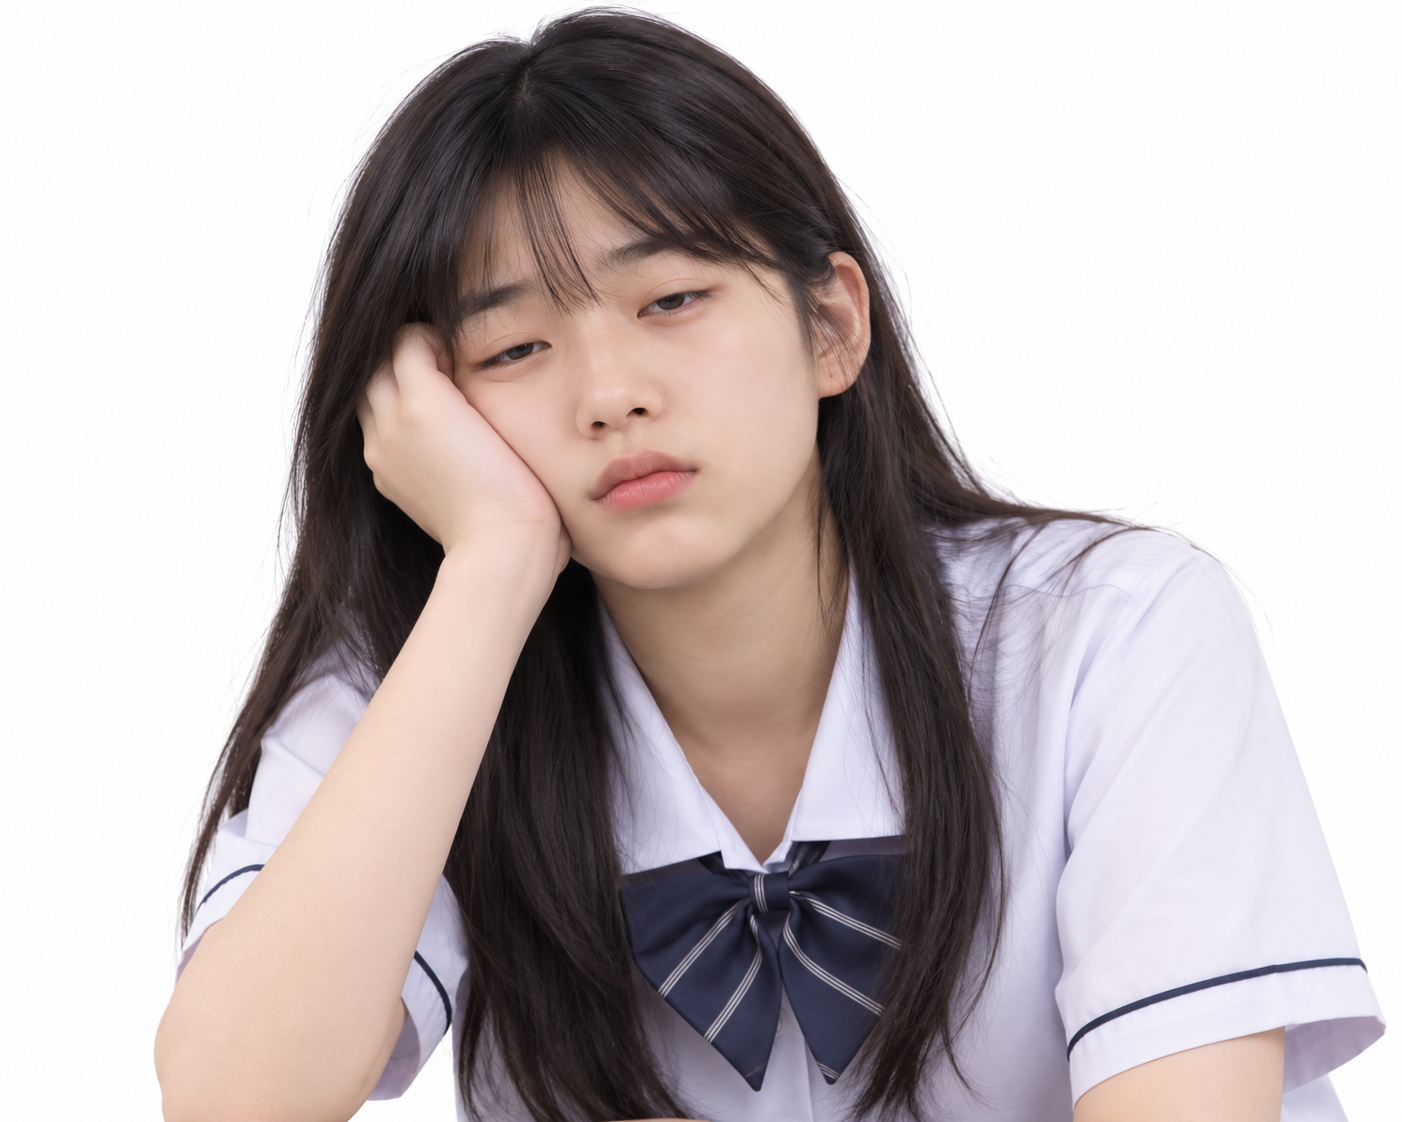
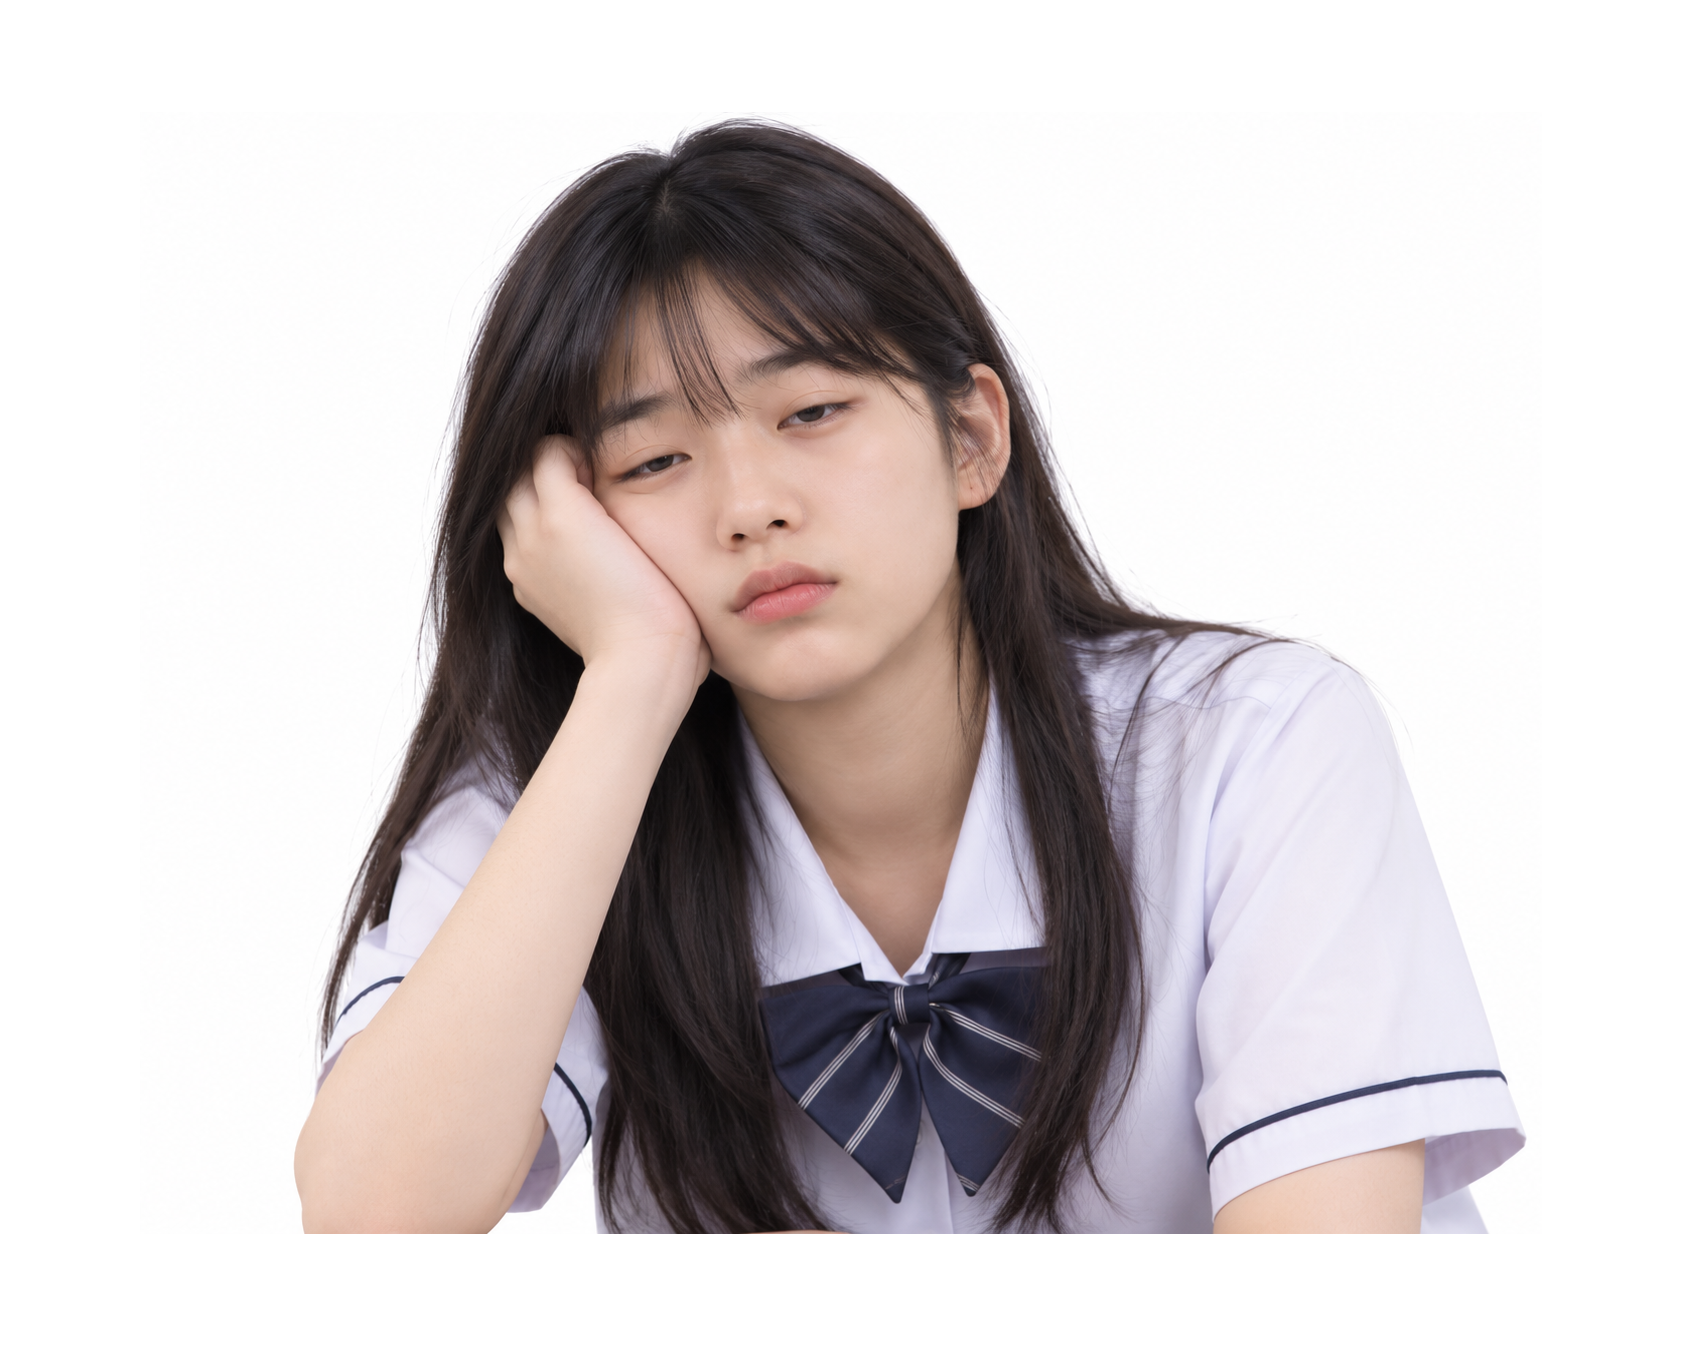
StudentSection: normalize 쉽게 지쳐요 photo scale (white-pad source to match others)
Girl's subject was framed larger; padded source with white so object-cover shows
her at a scale matching the other two cards, filling the box cleanly.

diff --git a/src/components/StudentSection.tsx b/src/components/StudentSection.tsx
@@ -17,6 +17,7 @@ const symptoms = [
   {
     title: "긴장되고 잠을 설쳐요",
     description: "시험 불안, 가슴 두근거림, 얕은 수면이 반복됩니다.",
+    image: "/study-sleep.png",
   },
 ];
 
@@ -64,7 +65,7 @@ export default function StudentSection() {
                       src={symptom.image}
                       alt={symptom.title}
                       fill
-                      className="object-cover"
+                      className={`object-cover ${symptom.imgClass ?? ""}`}
                       sizes="(max-width: 768px) 40vw, 384px"
                     />
                     {/* 텍스트와 맞닿는 왼쪽 가장자리를 살짝 배경색으로 블렌드 */}
